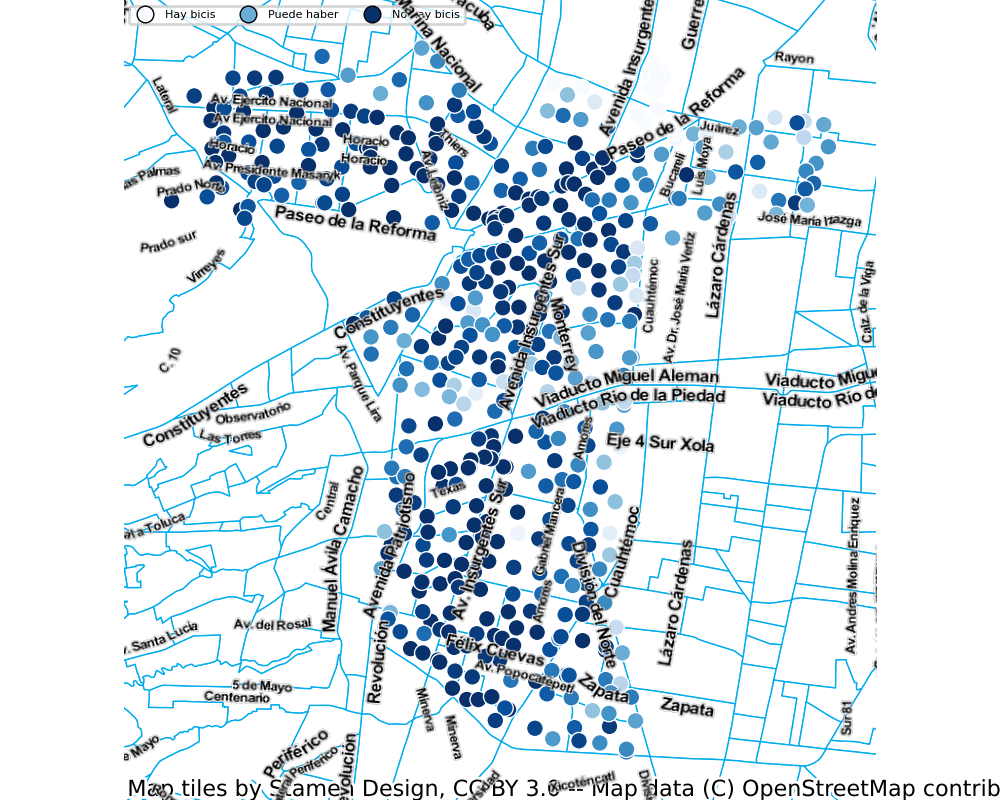
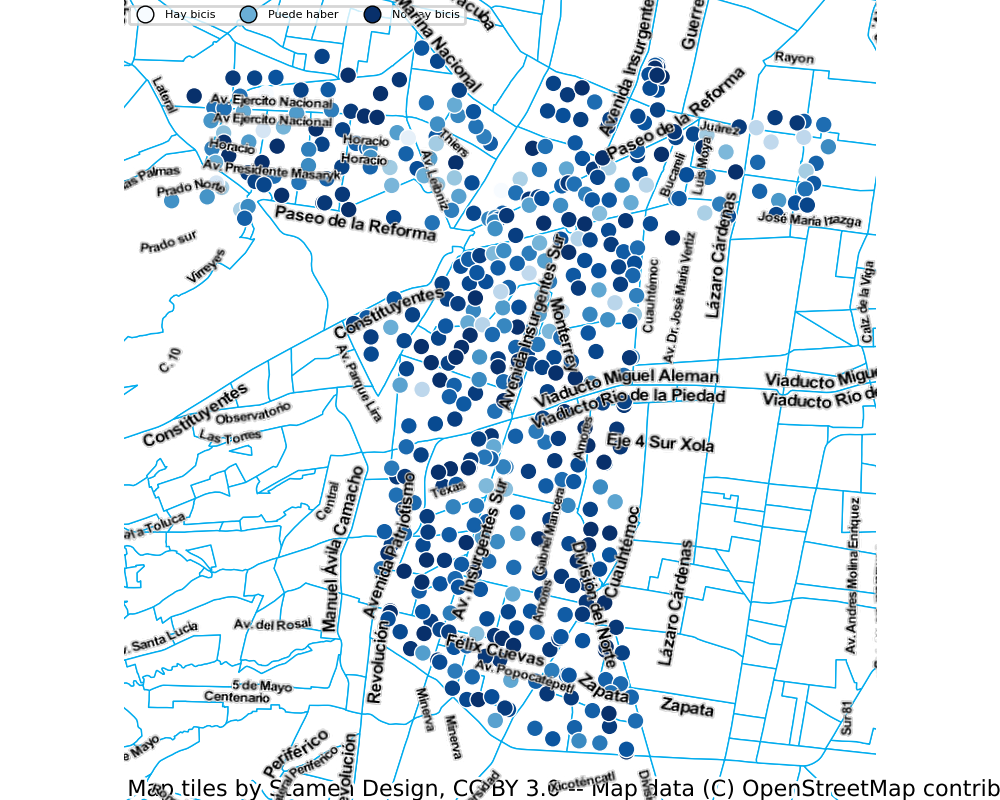
If any error for prediction is triggered, display the actual map

diff --git a/scripts/map.py b/scripts/map.py
@@ -33,7 +33,7 @@ class EcoBiciMap:
         :secret_id: contraseña propoprcionada por Ecobici, en un correo aparte para mayor seguridad
         '''
         # Obtiene el directorio actual
-        if is_local: self.base_dir = Path('/Users/efraflores/Desktop/hub/ecobici_bot')
+        if is_local: self.base_dir = Path('/Users/efrain.flores/Desktop/hub/ecobici_bot')
         else: self.base_dir = Path().cwd()
         self.csv_dir = self.base_dir.joinpath('data','csv')
         self.shapefile_dir = self.base_dir.joinpath('data','shp')
@@ -208,8 +208,8 @@ class EcoBiciMap:
         self.pred = self.pred.merge(self.av[['id', 'availability.bikes', 'availability.slots']], on='id')
         print(self.pred.shape)
         self.pred['prediction'] = self.pred['prediction'].map(lambda x: 0 if x<0 else x)
-        self.pred['pred_bike_proportion'] = 1 - self.pred['prediction'] / (self.pred['availability.bikes'] + self.pred['availability.slots'])
-        self.pred['pred_bike_proportion'] = self.pred['pred_bike_proportion'].map(lambda x: 0 if x<0 else x)
+        self.pred['bikes_proportion'] = 1 - self.pred['prediction'] / (self.pred['availability.bikes'] + self.pred['availability.slots'])
+        self.pred['bikes_proportion'] = self.pred['bikes_proportion'].map(lambda x: 0 if x<0 else x)
 
 
     def get_map(self, img_name: str, shp_first_time: bool=True, **kwargs) -> None:
@@ -221,7 +221,7 @@ class EcoBiciMap:
         self.transform()
         self.save_csv()
         self.plot_map(data=self.df, col_to_plot='slots_proportion', **kwargs)
-        self.prediction_data(file_name='df_for_map.csv', is_local=self.is_local)
-        self.plot_map(data=self.pred, col_to_plot='pred_bike_proportion', img_name=f'{img_name}', **kwargs)
-        # self.tweet_map(img=self.base_dir.joinpath('media','map','map.png'))
+        try: self.prediction_data(file_name='df_for_map.csv', is_local=self.is_local)
+        except: img_name = 'map'
+        self.plot_map(data=self.pred, col_to_plot='bikes_proportion', img_name=f'{img_name}', **kwargs)
         self.tweet_map(img=self.base_dir.joinpath('media', 'map', f'{img_name}.png'))
